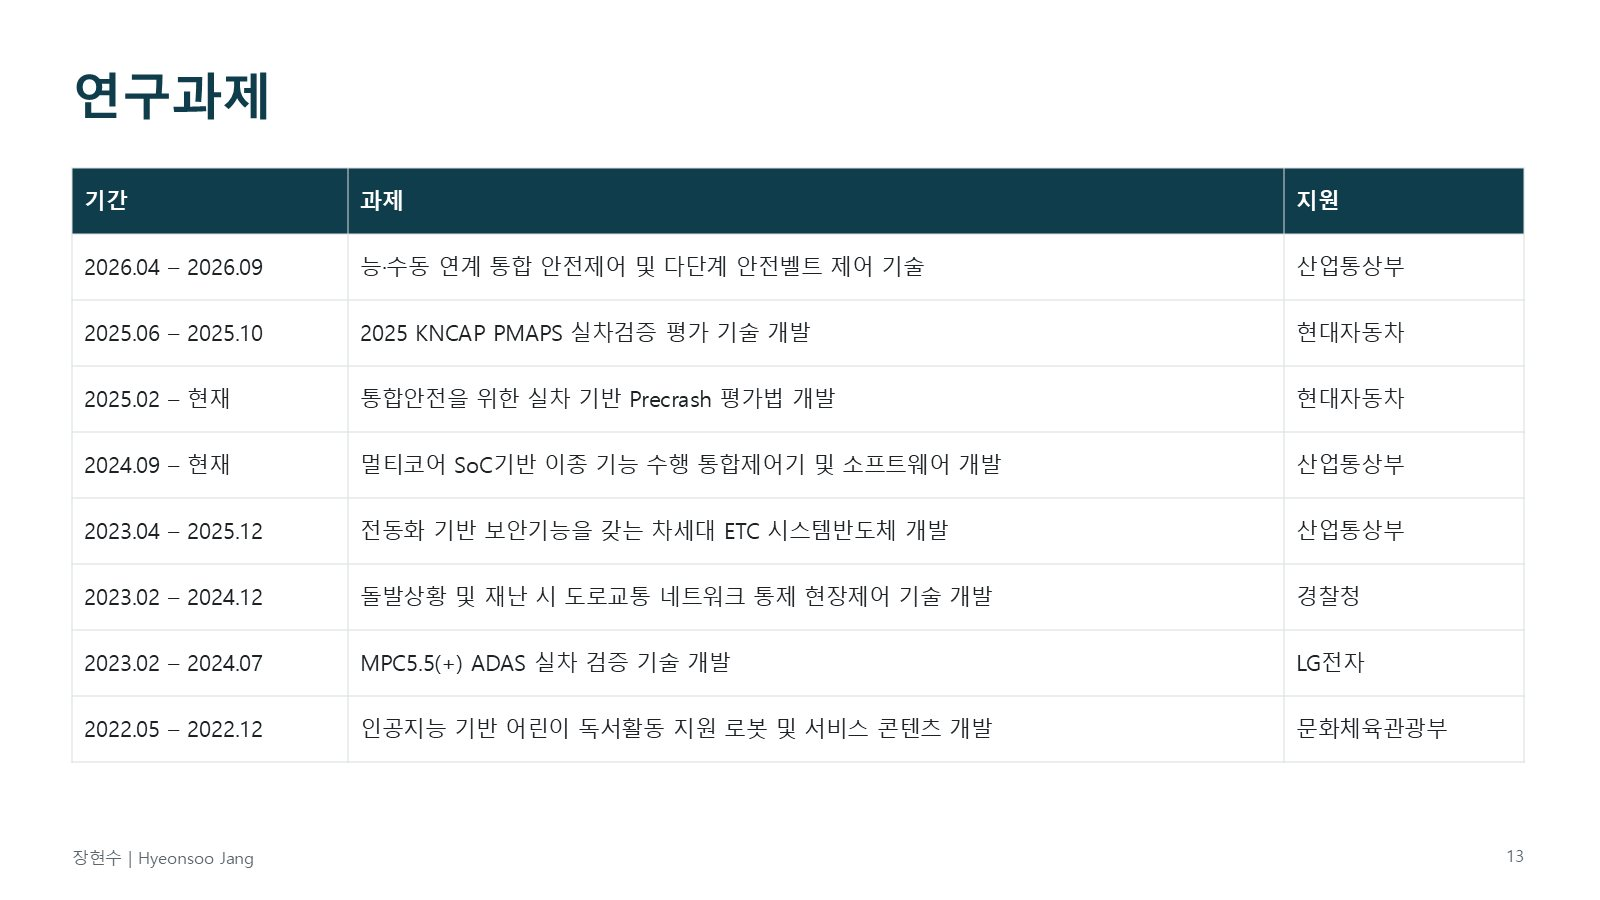
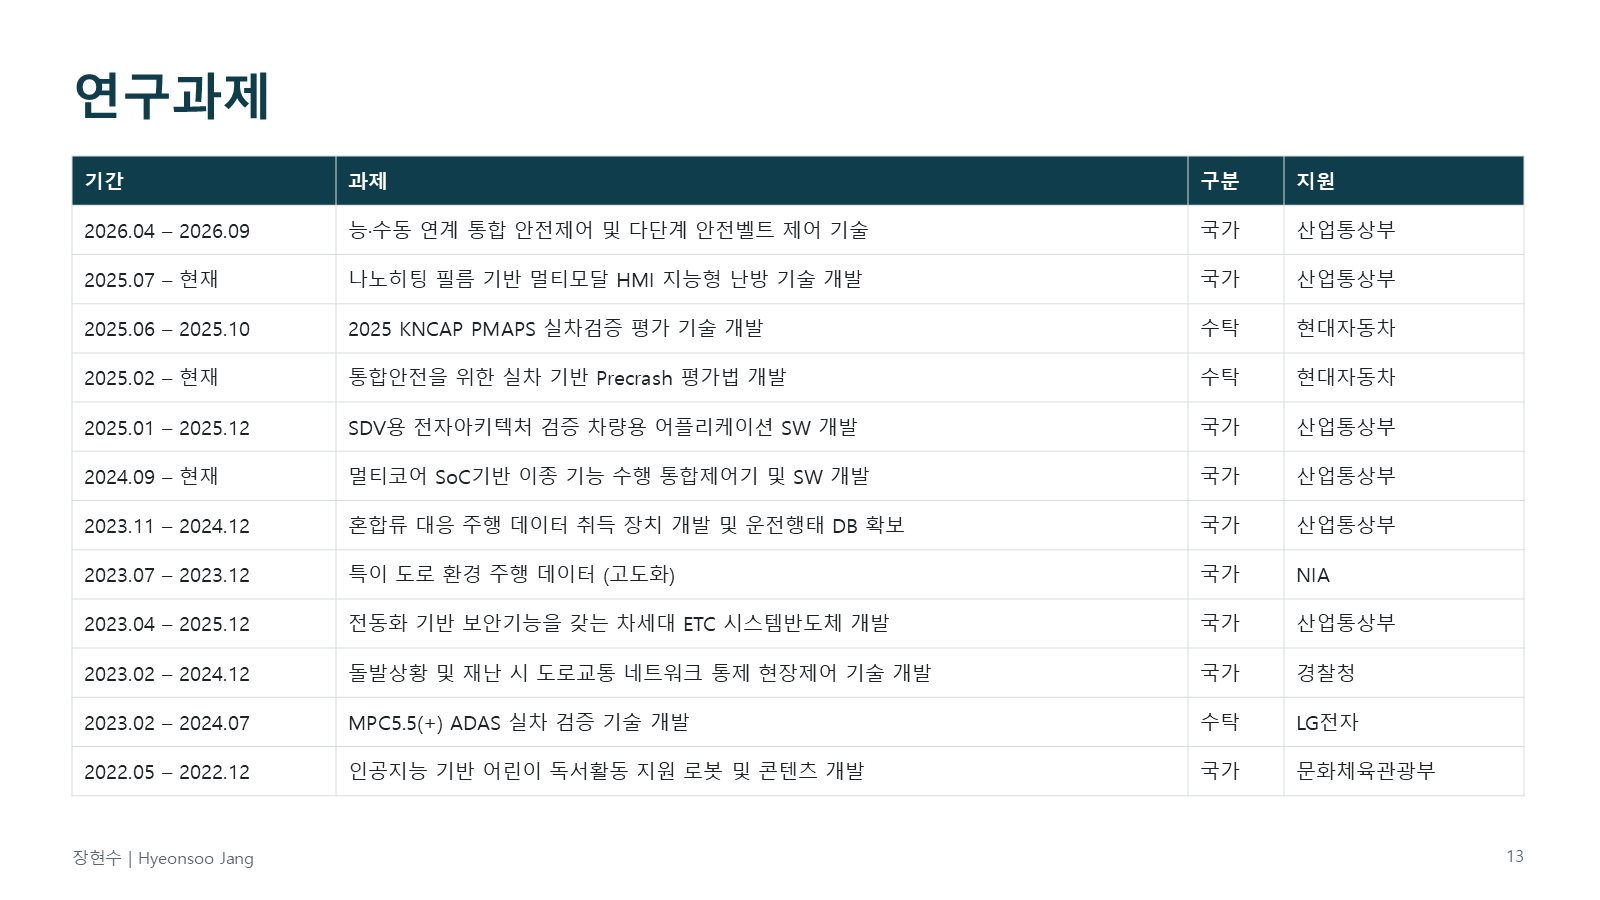
연구과제 4건 추가와 국가·수탁 구분 표시

diff --git a/assets/style.css b/assets/style.css
@@ -106,7 +106,8 @@ figure img { width: 100%; background: var(--surface); }
 figcaption { color: var(--muted); font-size: .84rem; line-height: 1.5; margin-top: 7px; }
 details.project { background: var(--panel); margin-top: 8px; }
 details.project summary { cursor: pointer; padding: 11px 16px; font-weight: 650; line-height: 1.45; }
-details.project summary small { display: block; color: var(--muted); font-size: .86rem; font-weight: 400; margin-top: 2px; }
+.project-plain { background: var(--panel); margin-top: 8px; padding: 11px 16px; font-weight: 650; line-height: 1.45; }
+.project-plain small, details.project summary small { display: block; color: var(--muted); font-size: .86rem; font-weight: 400; margin-top: 2px; }
 details.project[open] summary { padding-bottom: 6px; }
 details.project ul { margin: 0; padding: 0 16px 14px 34px; font-size: .96rem; }
 details.project li { margin-block: 5px; }
